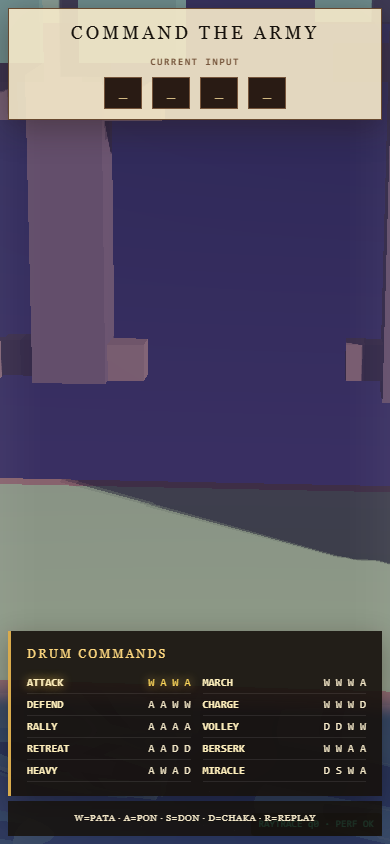
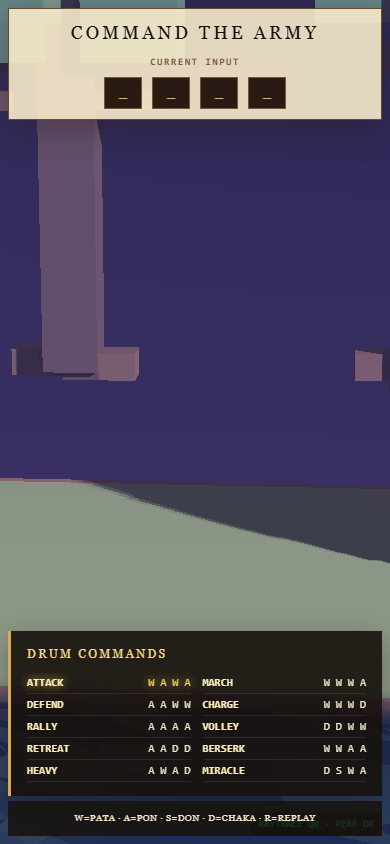
feat(6p3d): double voxel density + two-level macrocell DDA traversal
- Grid 80x32x56 @0.5 -> 160x64x112 @0.25 (world extent unchanged);
  sub-voxel intro art radii bumped to fill the finer cells
- Two-level DDA: 4^3-voxel macrocell occupancy texture (40x16x28),
  empty macrocells skipped wholesale; fine Amanatides-Woo inside
  occupied cells (shader-side hierarchical pruning, keeps doubled
  density real-time)
- Fix first-cell hit axis: marchFine defaulted axis=0, so macro-entry
  hits on compact geometry got wrong normals -> salt-and-pepper
  speckle; entry axis now tracked through marchGrid and passed in
- capability probe detects software rasterizers (SwiftShader/llvmpipe);
  IntroEngine starts raytrace at quality level 4 there, plus a
  downgrade-only frame-time governor (EMA > 40ms steps the ladder)
- CLAUDE.md: drop stale "battle is live" lines (intro-only build)

Smoke (SwiftShader): intro boot/flight/ending/replay/mobile all PASS,
zero console errors; 113ms avg frame at q6 under software rendering.

diff --git a/6_patapon3D/src/engine/raytrace/VoxelRaycaster.ts b/6_patapon3D/src/engine/raytrace/VoxelRaycaster.ts
@@ -20,11 +20,21 @@ import * as THREE from 'three';
 import type { LightingState } from './SceneContract';
 
 // ─── 网格参数 ───
-// 80×32×56 ≈ 140KB/次全量上传;世界范围 x∈[-20,20] y∈[-3,13] z∈[-16,12]
-// (intro 地形 x∈[-18,18] + 中景树 z≈-15 需要更宽的网格;战斗内容不变)
-export const GRID_SIZE: readonly [number, number, number] = [80, 32, 56];
+// 160×64×112 @0.25(双倍密度)≈ 1.1MB/次全量上传;世界范围不变
+// x∈[-20,20] y∈[-3,13] z∈[-16,12]。
+// 遍历为两级 DDA:4³ 体素一个宏格(40×16×28 占用纹理 ≈17.9KB),
+// 空宏格整格跳过 —— 这是 shader 友好型的层次加速结构(等效 BVH 的
+// 空间剪枝:绝大多数光线步进数 ÷4),支撑双倍密度下的实时帧率。
+export const GRID_SIZE: readonly [number, number, number] = [160, 64, 112];
 export const GRID_MIN = new THREE.Vector3(-20, -3, -16);
-export const GRID_STEP = 0.5;
+export const GRID_STEP = 0.25;
+/** 宏格边长(细体素数);三个维度必须能被它整除 */
+export const MACRO_CELL = 4;
+export const MACRO_SIZE: readonly [number, number, number] = [
+  GRID_SIZE[0] / MACRO_CELL,
+  GRID_SIZE[1] / MACRO_CELL,
+  GRID_SIZE[2] / MACRO_CELL,
+];
 
 // ─── 材质 ID ───
 export const MAT = {
@@ -238,6 +248,7 @@ const FRAGMENT_SHADER = `precision highp float;
 precision highp sampler3D;
 
 uniform sampler3D uGrid;
+uniform sampler3D uMacro;
 uniform ivec3 uGridSize;
 uniform vec3 uGridMin;
 uniform float uGridStep;
@@ -285,33 +296,33 @@ int voxel(ivec3 c) {
 
 struct Hit { bool hit; float t; ivec3 cell; int axis; int id; };
 
-Hit marchGrid(vec3 ro, vec3 rd) {
+const int MACRO = 4;
+
+int macroVoxel(ivec3 mc) {
+  ivec3 ms = uGridSize / MACRO;
+  if (mc.x < 0 || mc.y < 0 || mc.z < 0 || mc.x >= ms.x || mc.y >= ms.y || mc.z >= ms.z) return 0;
+  return int(texture(uMacro, (vec3(mc) + 0.5) / vec3(ms)).r * 255.0 + 0.5);
+}
+
+// 细粒度 DDA,限制在单个宏格 [cMin, cMax] 内,t ∈ (tStart, tEnd]
+// entryAxis:进入宏格的面轴 —— 首格即命中时以此作为命中面法线
+// (否则默认 axis=0 会把顶面命中错当成 ±x 面 → 椒盐噪点)
+Hit marchFine(vec3 ro, vec3 rd, float tStart, float tEnd, ivec3 cMin, ivec3 cMax, vec3 inv, int entryAxis) {
   Hit hit;
   hit.hit = false;
   hit.t = 1e9;
   hit.cell = ivec3(0);
-  hit.axis = 0;
+  hit.axis = entryAxis;
   hit.id = EMPTY;
   vec3 bmin = uGridMin;
-  vec3 bmax = uGridMin + vec3(uGridSize) * uGridStep;
-  vec3 inv = vec3(invOrZero(rd.x), invOrZero(rd.y), invOrZero(rd.z));
-  vec3 t0 = (bmin - ro) * inv;
-  vec3 t1 = (bmax - ro) * inv;
-  vec3 tmin = min(t0, t1);
-  vec3 tmax = max(t0, t1);
-  float tEnter = max(max(tmin.x, tmin.y), tmin.z);
-  float tExit = min(min(tmax.x, tmax.y), tmax.z);
-  if (tEnter > tExit) return hit;
-  tEnter = max(tEnter, 0.0);
-  vec3 pos = ro + rd * tEnter;
-  ivec3 cell = ivec3(floor((pos - bmin) / uGridStep));
-  cell = clamp(cell, ivec3(0), uGridSize - 1);
+  vec3 pos = ro + rd * tStart;
+  ivec3 cell = clamp(ivec3(floor((pos - bmin) / uGridStep)), cMin, cMax);
   ivec3 step = ivec3(sign(rd));
   vec3 nextCell = vec3(cell) + vec3(max(step, ivec3(0)));
   vec3 tMax = (bmin + nextCell * uGridStep - ro) * inv;
   vec3 tDelta = vec3(uGridStep) * abs(inv);
-  float t = tEnter;
-  while (t <= tExit && t < 300.0) {
+  float t = tStart;
+  while (t <= tEnd && t < 300.0) {
     int id = voxel(cell);
     if (id != EMPTY) {
       hit.hit = true;
@@ -336,6 +347,71 @@ Hit marchGrid(vec3 ro, vec3 rd) {
       cell.z += step.z;
       hit.axis = 2;
     }
+    if (cell.x < cMin.x || cell.y < cMin.y || cell.z < cMin.z ||
+        cell.x > cMax.x || cell.y > cMax.y || cell.z > cMax.z) return hit;
+  }
+  return hit;
+}
+
+// 两级 DDA:宏格占用纹理整格跳过(空域剪枝),占用宏格内做细粒度 DDA
+Hit marchGrid(vec3 ro, vec3 rd) {
+  Hit hit;
+  hit.hit = false;
+  hit.t = 1e9;
+  hit.cell = ivec3(0);
+  hit.axis = 0;
+  hit.id = EMPTY;
+  vec3 bmin = uGridMin;
+  vec3 bmax = uGridMin + vec3(uGridSize) * uGridStep;
+  vec3 inv = vec3(invOrZero(rd.x), invOrZero(rd.y), invOrZero(rd.z));
+  vec3 t0 = (bmin - ro) * inv;
+  vec3 t1 = (bmax - ro) * inv;
+  vec3 tmin = min(t0, t1);
+  vec3 tmax = max(t0, t1);
+  float tEnter = max(max(tmin.x, tmin.y), tmin.z);
+  float tExit = min(min(tmax.x, tmax.y), tmax.z);
+  if (tEnter > tExit) return hit;
+  tEnter = max(tEnter, 0.0);
+
+  // 进入网格的面轴(slab 最大者);原点已在网格内时保持 0
+  int mAxis = 0;
+  if (tEnter > 0.0) {
+    if (tmin.y >= tmin.x && tmin.y >= tmin.z) mAxis = 1;
+    else if (tmin.z >= tmin.x && tmin.z >= tmin.y) mAxis = 2;
+  }
+
+  float mstepLen = uGridStep * float(MACRO);
+  ivec3 msize = uGridSize / MACRO;
+  vec3 pos = ro + rd * tEnter;
+  ivec3 mc = clamp(ivec3(floor((pos - bmin) / mstepLen)), ivec3(0), msize - 1);
+  ivec3 mstep = ivec3(sign(rd));
+  vec3 mNext = vec3(mc) + vec3(max(mstep, ivec3(0)));
+  vec3 tMaxM = (bmin + mNext * mstepLen - ro) * inv;
+  vec3 tDeltaM = vec3(mstepLen) * abs(inv);
+  float t = tEnter;
+  while (t <= tExit && t < 300.0) {
+    if (macroVoxel(mc) != 0) {
+      float tLoc = min(min(tMaxM.x, tMaxM.y), tMaxM.z);
+      Hit fh = marchFine(ro, rd, t, min(tLoc, tExit), mc * MACRO, mc * MACRO + (MACRO - 1), inv, mAxis);
+      if (fh.hit) return fh;
+    }
+    if (tMaxM.x < tMaxM.y && tMaxM.x < tMaxM.z) {
+      t = tMaxM.x;
+      tMaxM.x += tDeltaM.x;
+      mc.x += mstep.x;
+      mAxis = 0;
+    } else if (tMaxM.y < tMaxM.z) {
+      t = tMaxM.y;
+      tMaxM.y += tDeltaM.y;
+      mc.y += mstep.y;
+      mAxis = 1;
+    } else {
+      t = tMaxM.z;
+      tMaxM.z += tDeltaM.z;
+      mc.z += mstep.z;
+      mAxis = 2;
+    }
+    if (mc.x < 0 || mc.y < 0 || mc.z < 0 || mc.x >= msize.x || mc.y >= msize.y || mc.z >= msize.z) return hit;
   }
   return hit;
 }
@@ -588,6 +664,7 @@ void main() {
 interface RayUniforms {
   [uniform: string]: THREE.IUniform;
   uGrid: { value: THREE.Data3DTexture };
+  uMacro: { value: THREE.Data3DTexture };
   uGridSize: { value: THREE.Vector3 };
   uGridMin: { value: THREE.Vector3 };
   uGridStep: { value: number };
@@ -617,12 +694,14 @@ interface RayUniforms {
 
 export class VoxelRaycaster {
   readonly texture: THREE.Data3DTexture;
+  readonly macroTexture: THREE.Data3DTexture;
   readonly scene: THREE.Scene;
   readonly camera: THREE.OrthographicCamera;
   readonly material: THREE.RawShaderMaterial;
 
   private readonly base: Uint8Array<ArrayBuffer>;
   private readonly work: Uint8Array<ArrayBuffer>;
+  private readonly macro: Uint8Array<ArrayBuffer>;
   private readonly geometry: THREE.BufferGeometry;
   private readonly uniforms: RayUniforms;
   private readonly albedoArray = new Float32Array(MAT_COUNT * 4);
@@ -644,6 +723,18 @@ export class VoxelRaycaster {
     this.texture.wrapR = THREE.ClampToEdgeWrapping;
     this.texture.needsUpdate = true;
 
+    // 宏格占用纹理(两级 DDA 的上层;writeStatic/commitDynamic 时从细网格重建)
+    this.macro = new Uint8Array(MACRO_SIZE[0]! * MACRO_SIZE[1]! * MACRO_SIZE[2]!);
+    this.macroTexture = new THREE.Data3DTexture(this.macro, MACRO_SIZE[0], MACRO_SIZE[1], MACRO_SIZE[2]);
+    this.macroTexture.format = THREE.RedFormat;
+    this.macroTexture.type = THREE.UnsignedByteType;
+    this.macroTexture.minFilter = THREE.NearestFilter;
+    this.macroTexture.magFilter = THREE.NearestFilter;
+    this.macroTexture.wrapS = THREE.ClampToEdgeWrapping;
+    this.macroTexture.wrapT = THREE.ClampToEdgeWrapping;
+    this.macroTexture.wrapR = THREE.ClampToEdgeWrapping;
+    this.macroTexture.needsUpdate = true;
+
     // 填充调色板 uniform
     for (const [rawId, entry] of Object.entries(PALETTE)) {
       const id = Number(rawId);
@@ -658,6 +749,7 @@ export class VoxelRaycaster {
 
     this.uniforms = {
       uGrid: { value: this.texture },
+      uMacro: { value: this.macroTexture },
       uGridSize: { value: new THREE.Vector3(GRID_SIZE[0], GRID_SIZE[1], GRID_SIZE[2]) },
       uGridMin: { value: GRID_MIN },
       uGridStep: { value: GRID_STEP },
@@ -713,6 +805,7 @@ export class VoxelRaycaster {
     this.base.fill(0);
     builder(this.base);
     this.work.set(this.base);
+    this.rebuildMacro();
     this.texture.needsUpdate = true;
   }
 
@@ -725,7 +818,28 @@ export class VoxelRaycaster {
   /** 提交动态层:按上传节流决定是否真正上传(降级阶梯:隔帧上传) */
   commitDynamic(): void {
     this.commitCounter = (this.commitCounter + 1) % this.uploadInterval;
-    if (this.commitCounter === 0) this.texture.needsUpdate = true;
+    if (this.commitCounter === 0) {
+      this.rebuildMacro();
+      this.texture.needsUpdate = true;
+    }
+  }
+
+  /** 从工作网格重建宏格占用(任一细体素非空 → 宏格占用) */
+  private rebuildMacro(): void {
+    const [gx, gy, gz] = GRID_SIZE as [number, number, number];
+    const [mx, my] = MACRO_SIZE as [number, number, number];
+    this.macro.fill(0);
+    for (let z = 0; z < gz; z++) {
+      const mz = (z >> 2) * (mx * my);
+      for (let y = 0; y < gy; y++) {
+        const rowBase = gx * (y + gy * z);
+        const mRow = mx * (y >> 2) + mz;
+        for (let x = 0; x < gx; x++) {
+          if (this.work[rowBase + x] !== 0) this.macro[(x >> 2) + mRow] = 1;
+        }
+      }
+    }
+    this.macroTexture.needsUpdate = true;
   }
 
   /** 动态网格上传节流:1 = 每帧上传,2 = 隔帧上传 */
@@ -786,6 +900,7 @@ export class VoxelRaycaster {
 
   dispose(): void {
     this.texture.dispose();
+    this.macroTexture.dispose();
     this.geometry.dispose();
     this.material.dispose();
   }

diff --git a/6_patapon3D/src/engine/IntroEngine.ts b/6_patapon3D/src/engine/IntroEngine.ts
@@ -56,6 +56,9 @@ export class IntroEngine {
   private selectedCommand = 'ATTACK';
   private running = false;
   private rafId = 0;
+  private qualityLevel = 0;
+  private frameMsEma = 0;
+  private framesSinceEval = 0;
   private renderer: THREE.WebGLRenderer | null = null;
   private adapter: SceneRenderer<IntroState> | null = null;
   private driver: IntroStageDriver | null = null;
@@ -110,7 +113,10 @@ export class IntroEngine {
     }
     this.adapter.activate();
     this.adapter.setSize(container.clientWidth, container.clientHeight);
-    usePatapongStore.setState({ rendererMode: this.adapter.kind });
+    // 软件渲染(SwiftShader 等)直接从第 4 档起步;之后由降质调节器继续下探
+    this.qualityLevel = capability.software ? 4 : 0;
+    this.adapter.setQuality(this.qualityLevel);
+    usePatapongStore.setState({ rendererMode: this.adapter.kind, qualityLevel: this.qualityLevel });
 
     this.keyHandler = (event: KeyboardEvent) => {
       if (event.code === 'KeyR') {
@@ -130,6 +136,20 @@ export class IntroEngine {
     const frame = (time: number) => {
       if (!this.running) return;
       const dt = Math.min(0.05, this.lastTime ? (time - this.lastTime) / 1000 : 0);
+      // 降质调节器(只降不升,避免振荡):帧时 EMA > 40ms 且未满 6 档 → 每 15 帧降一档
+      if (this.lastTime) {
+        const frameMs = Math.min(1000, time - this.lastTime);
+        this.frameMsEma = this.frameMsEma === 0 ? frameMs : this.frameMsEma * 0.9 + frameMs * 0.1;
+        if (++this.framesSinceEval >= 15) {
+          this.framesSinceEval = 0;
+          if (this.frameMsEma > 40 && this.qualityLevel < 6) {
+            this.qualityLevel += this.frameMsEma > 120 ? 2 : 1;
+            this.qualityLevel = Math.min(6, this.qualityLevel);
+            this.adapter?.setQuality(this.qualityLevel);
+            usePatapongStore.setState({ qualityLevel: this.qualityLevel });
+          }
+        }
+      }
       this.lastTime = time;
       const state = usePatapongStore.getState().intro;
       if (state.stage === 'input') {

diff --git a/6_patapon3D/src/engine/raytrace/introScene.ts b/6_patapon3D/src/engine/raytrace/introScene.ts
@@ -132,7 +132,7 @@ function drawLimb(
   const dx = Math.sin(angleZ);
   const dy = -Math.cos(angleZ);
   for (const t of [0.3, 0.62, 0.94]) {
-    fillSphere(g, px + dx * length * t, py + dy * length * t, pz, 0.14, MAT.LIMB);
+    fillSphere(g, px + dx * length * t, py + dy * length * t, pz, 0.3, MAT.LIMB);
   }
 }
 
@@ -150,7 +150,7 @@ function drawPatapon(
 
   fillEllipsoid(g, x, y, z, 1.05 * sx, 1.02 * sy, 0.72, MAT.ARMY_BODY);
   fillSphere(g, x, y + 0.05 * sy, z + 0.62, 0.55, MAT.EYE_WHITE);
-  fillSphere(g, x + 0.05, y + 0.05 * sy, z + 0.95, 0.16, MAT.PUPIL);
+  fillSphere(g, x + 0.05, y + 0.05 * sy, z + 0.95, 0.22, MAT.PUPIL);
 
   const feathers: ReadonlyArray<readonly [number, number, number]> = [
     [-0.42, 1.8, MAT.FEATHER_RED],
@@ -168,7 +168,7 @@ function drawPatapon(
 
   if (unit.archer) {
     for (let i = -8; i <= 8; i += 2) {
-      fillSphere(g, x + 0.9 + Math.abs(i) * 0.045, y + i * 0.15, z + 0.35, 0.12, MAT.BOW_GOLD);
+      fillSphere(g, x + 0.9 + Math.abs(i) * 0.045, y + i * 0.15, z + 0.35, 0.26, MAT.BOW_GOLD);
     }
     fillBox(g, x + 0.92, y, z + 0.35, 0.03, 1.2, 0.03, MAT.BOW_GOLD);
   }
@@ -206,7 +206,7 @@ function drawArrow(g: Uint8Array, state: IntroStageState): void {
   const p = state.arrowPosition;
   const d = state.arrowDirection;
   for (const t of [-0.9, -0.3, 0.3, 0.9]) {
-    fillSphere(g, p.x + d.x * t, p.y + d.y * t, p.z + d.z * t, 0.2, MAT.ARROW_WOOD);
+    fillSphere(g, p.x + d.x * t, p.y + d.y * t, p.z + d.z * t, 0.28, MAT.ARROW_WOOD);
   }
   fillSphere(g, p.x + d.x * 1.38, p.y + d.y * 1.38, p.z + d.z * 1.38, 0.28, MAT.ARROW_TIP);
 }

diff --git a/6_patapon3D/src/engine/raytrace/capability.ts b/6_patapon3D/src/engine/raytrace/capability.ts
@@ -16,6 +16,8 @@ export interface CapabilityResult {
   readonly kind: RendererKind;
   /** 回退原因(仅 raster 时有值,用于调试表面展示) */
   readonly reason?: string;
+  /** 软件渲染(SwiftShader/llvmpipe 等):raytrace 可用但应从低质量档起步 */
+  readonly software?: boolean;
 }
 
 let cached: CapabilityResult | null = null;
@@ -47,6 +49,11 @@ function doProbe(): CapabilityResult {
   }
   if (!gl) return { kind: 'raster', reason: 'webgl2-unavailable' };
 
+  // 软件光栅化检测(须在 loseContext 之前读取)
+  const dbg = gl.getExtension('WEBGL_debug_renderer_info');
+  const rname = dbg ? String(gl.getParameter(dbg.UNMASKED_RENDERER_WEBGL)) : '';
+  const software = /swiftshader|llvmpipe|softpipe|software/i.test(rname);
+
   try {
     const tex = gl.createTexture();
     gl.bindTexture(gl.TEXTURE_3D, tex);
@@ -70,5 +77,5 @@ function doProbe(): CapabilityResult {
   } finally {
     gl.getExtension('WEBGL_lose_context')?.loseContext();
   }
-  return { kind: 'raytrace' };
+  return { kind: 'raytrace', software };
 }

diff --git a/6_patapon3D/CLAUDE.md b/6_patapon3D/CLAUDE.md
@@ -5,9 +5,10 @@ against source on 2026-08-09 (v2.0 divine-drums rewrite).
 
 ## What this is
 
-**Active build (2026-08-09 recovery): intro-only shell.** `main.tsx` starts
-`IntroEngine`; the legacy battle implementation is dormant and excluded by
-`tsconfig.app.json`. Do not assume the documented v2 battle currently runs.
+**Active build (2026-08-10): intro-only shell.** `main.tsx` starts
+`IntroEngine` and nothing else; battle engine/render files were deleted
+(2026-08-10). The platform-pure battle sim in `src/core/` remains for a
+future battle renderer. Do not assume the documented v2 battle currently runs.
 
 **Patapong 3D** - a drum-driven god game in the spirit of Patapon. The player
 is the **divine drummer** commanding a **3-unit voxel army** against **one big
@@ -16,7 +17,8 @@ boss** (Moloch). NOT a Pong clone, NOT a 1v1 fighter (that was v1.0).
 - W/A/S/D = drums PATA / PON / DON / CHAKA.
 - Any drum inside the beat window counts (timing-only judgement).
 - 4 successful beats complete the awakening ritual.
-- The 10-command / 3-song battle is live (evidence: verification-report.md §9).
+- The battle implementation was removed 2026-08-10 (intro-only directive);
+  core sim remains in `src/core/` for a future battle renderer.
 
 Zero **runtime** asset files; `references/` is art-direction only.
 Dev server port **5183** (strictPort; siblings use 3000/5173/5184).
@@ -35,7 +37,7 @@ No test/lint/format tooling in this project; do not add it. Headless gameplay
 checks are done by bundling a throwaway harness with esbuild + node (pattern
 documented in `verification-report.md`). One sanctioned exception:
 `scripts/smoke.mjs` (Playwright loaded from the machine-wide bun cache — no
-project dependency) drives intro + battle end-to-end, screenshots in `smoke/`.
+project dependency) drives the intro end-to-end, screenshots in `smoke/`.
 
 ## Architecture (C.A.T)
 
